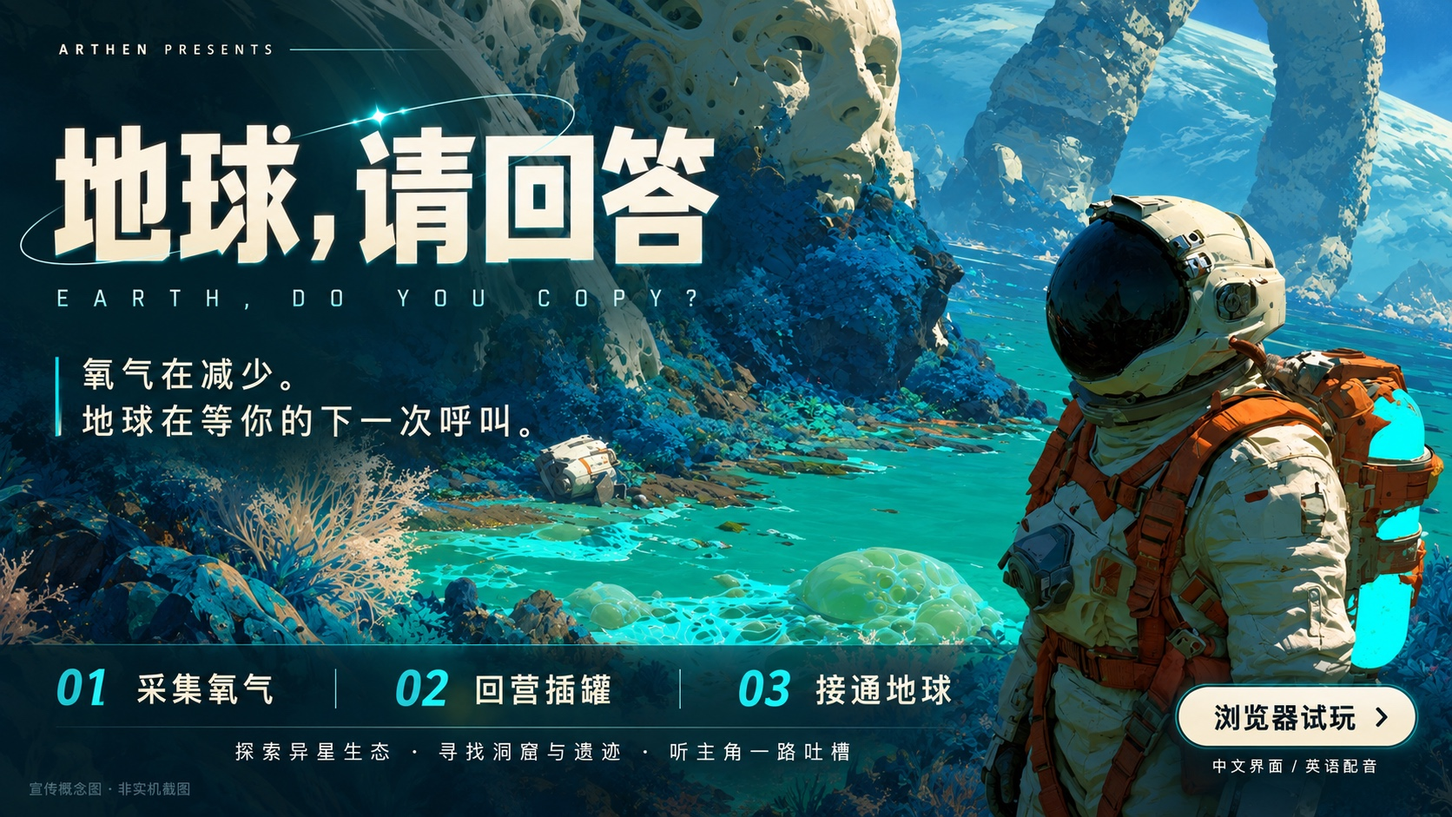
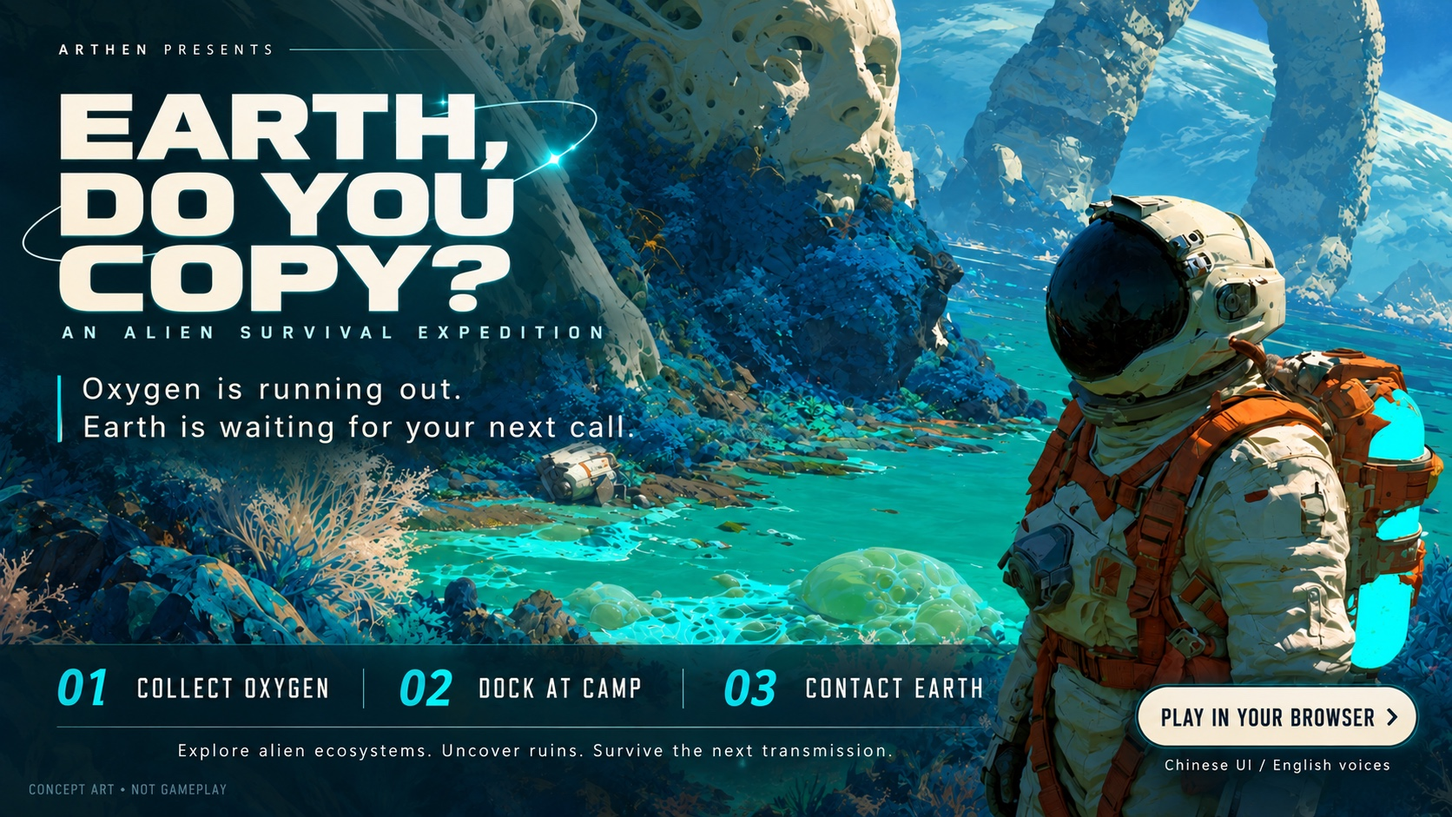
Open the lake horizon, restore cool atmosphere and flock flight; English poster

diff --git a/scene.js b/scene.js
@@ -1,12 +1,12 @@
 import * as THREE from 'three';
-import {createFieldWorld} from './field-world.js?v=20261016-atmosphere';
-import {createCinematic} from './cinematic.js?v=20261016-atmosphere';
+import {createFieldWorld} from './field-world.js?v=20261016-horizon';
+import {createCinematic} from './cinematic.js?v=20261016-horizon';
 import {expandedHeight,expandGround} from './terrain.js?v=20261015-1';
 import {createFishSchools} from './fish.js?v=20261016-camp';
 import {createAmbientSound} from './audio.js?v=20261016-arthen';
-import {enrichEnvironment} from './environment.js?v=20261016-atmosphere';
+import {enrichEnvironment} from './environment.js?v=20261016-horizon';
 import {createWalker} from './walker.js?v=20261016-camp';
-import {createStoryWorld} from './story-world.js?v=20261016-atmosphere';
+import {createStoryWorld} from './story-world.js?v=20261016-horizon';
 import {createGameUI} from './game-ui.js?v=20261016-mj81';
 import {OrbitControls} from 'three/addons/controls/OrbitControls.js';
 import {GLTFLoader} from 'three/addons/loaders/GLTFLoader.js';
@@ -34,7 +34,7 @@ const dawnLight=new THREE.DirectionalLight(0xffd8ad,.32);dawnLight.position.set(
 const fireLight=new THREE.PointLight(0xff9a45,320,12,2);fireLight.position.set(3.9,1.25,.10);fireLight.castShadow=false;fireLight.shadow.mapSize.set(512,512);fireLight.shadow.bias=-.002;fireLight.shadow.normalBias=.02;fireLight.shadow.camera.near=.15;scene.add(fireLight);const fireBounce=new THREE.PointLight(0xff6520,75,8,2);fireBounce.position.set(3.7,.35,.9);scene.add(fireBounce);
 const composer=new EffectComposer(renderer);composer.addPass(new RenderPass(scene,camera));const bloom=new UnrealBloomPass(new THREE.Vector2(innerWidth,innerHeight),.28,.30,1.35);composer.addPass(bloom);
 const motionBlur=new ShaderPass({uniforms:{tDiffuse:{value:null},direction:{value:new THREE.Vector2(0,1)},strength:{value:0},resolution:{value:new THREE.Vector2()}},vertexShader:'varying vec2 vUv;void main(){vUv=uv;gl_Position=projectionMatrix*modelViewMatrix*vec4(position,1.);}',fragmentShader:`uniform sampler2D tDiffuse;uniform vec2 direction;uniform float strength;uniform vec2 resolution;varying vec2 vUv;void main(){vec4 center=texture2D(tDiffuse,vUv);if(strength<.1){gl_FragColor=center;return;}vec2 stepUv=normalize(direction)*strength/resolution;vec4 color=center*.28;color+=(texture2D(tDiffuse,vUv+stepUv*.333)+texture2D(tDiffuse,vUv-stepUv*.333))*.16;color+=(texture2D(tDiffuse,vUv+stepUv*.667)+texture2D(tDiffuse,vUv-stepUv*.667))*.11;color+=(texture2D(tDiffuse,vUv+stepUv)+texture2D(tDiffuse,vUv-stepUv))*.09;float backgroundMask=smoothstep(.09,.24,length((vUv-vec2(.5,.5))*vec2(1.,.82)));gl_FragColor=mix(center,color,backgroundMask*.65);}`});renderer.getDrawingBufferSize(motionBlur.uniforms.resolution.value);composer.addPass(motionBlur);
-const grade=new ShaderPass({uniforms:{tDiffuse:{value:null},strength:{value:1}},vertexShader:'varying vec2 vUv; void main(){vUv=uv;gl_Position=projectionMatrix*modelViewMatrix*vec4(position,1.0);}',fragmentShader:`uniform sampler2D tDiffuse;uniform float strength;varying vec2 vUv;void main(){vec3 c=texture2D(tDiffuse,vUv).rgb;float l=dot(c,vec3(.2126,.7152,.0722));vec3 graded=c*mix(vec3(.96,1.00,1.025),vec3(1.035,1.01,.97),smoothstep(.10,1.3,l));float gradeLuma=dot(graded,vec3(.2126,.7152,.0722));graded=max(vec3(0.),mix(vec3(gradeLuma),graded,1.04));float vig=1.0-.15*pow(length((vUv-.5)*vec2(1.,.84))*1.3,1.8);gl_FragColor=vec4(mix(c,graded*vig,strength),1.0);}`});composer.addPass(grade);composer.addPass(new OutputPass());composer.addPass(new SMAAPass());
+const grade=new ShaderPass({uniforms:{tDiffuse:{value:null},strength:{value:1}},vertexShader:'varying vec2 vUv; void main(){vUv=uv;gl_Position=projectionMatrix*modelViewMatrix*vec4(position,1.0);}',fragmentShader:`uniform sampler2D tDiffuse;uniform float strength;varying vec2 vUv;void main(){vec3 c=texture2D(tDiffuse,vUv).rgb;float l=dot(c,vec3(.2126,.7152,.0722));vec3 graded=c*mix(vec3(.88,.98,1.08),vec3(1.00,1.01,1.025),smoothstep(.10,1.3,l));float gradeLuma=dot(graded,vec3(.2126,.7152,.0722));graded=max(vec3(0.),mix(vec3(gradeLuma),graded,1.04));float vig=1.0-.15*pow(length((vUv-.5)*vec2(1.,.84))*1.3,1.8);gl_FragColor=vec4(mix(c,graded*vig,strength),1.0);}`});composer.addPass(grade);composer.addPass(new OutputPass());composer.addPass(new SMAAPass());
 const draco=new DRACOLoader().setDecoderPath('./node_modules/three/examples/jsm/libs/draco/gltf/').setDecoderConfig({type:'js'}).setWorkerLimit(2);const loader=new GLTFLoader().setDRACOLoader(draco);let model,boat,water,layout,flame,environment,walker,fishSchools,gameUI,cinematic,birds=[];
 function windMaterial(mat,kind='willow'){mat.onBeforeCompile=shader=>{shader.uniforms.uTime=timeU;shader.uniforms.uWeather=weatherU;shader.vertexShader='uniform float uTime;uniform float uWeather;\n'+shader.vertexShader;const expr=kind==='grass'?`float flex=clamp(position.y/0.35,0.,1.);transformed.x+=sin(uTime*1.1+instanceMatrix[3].x*.7+instanceMatrix[3].z*.4)*.032*flex*flex*uWeather;`:`float flex=smoothstep(.6,3.8,position.y);float gust=sin(uTime*.7+position.x*.5+position.z*.28)*.10+sin(uTime*1.41+position.z*.8)*.025;transformed.x+=gust*flex*uWeather;transformed.z+=cos(uTime*.82+position.x*.4)*.04*flex*uWeather;`;shader.vertexShader=shader.vertexShader.replace('#include <begin_vertex>','#include <begin_vertex>\n'+expr);if(kind==='willow')shader.fragmentShader=shader.fragmentShader.replace('#include <clipping_planes_fragment>','#include <clipping_planes_fragment>\nif(length(vViewPosition)<3.4)discard;');};mat.customProgramCacheKey=()=>`wind-${kind}-camera-clear`;return mat;}
 function valueNoise(x,y,z){const f=t=>t*t*(3-2*t),hash=(a,b,c)=>{const d=Math.sin(a*127.1+b*311.7+c*74.7)*43758.5453;return d-Math.floor(d);},ix=Math.floor(x),iy=Math.floor(y),iz=Math.floor(z),fx=f(x-ix),fy=f(y-iy),fz=f(z-iz);let out=0;for(let a=0;a<2;a++)for(let b=0;b<2;b++)for(let c=0;c<2;c++)out+=hash(ix+a,iy+b,iz+c)*(a?fx:1-fx)*(b?fy:1-fy)*(c?fz:1-fz);return out;}
@@ -52,9 +52,9 @@ else if(m.name==='BOAT'){m.color.setRGB(.35,.41,.38);m.roughness=.57;m.normalSca
 else if(m.name.startsWith('POD_')){colorDirt(o);m.roughness=Math.max(.24,m.roughness);}
 if(name.startsWith('DEBRIS'))o.visible=false;
 if(name==='ASTRONAUT'){m.roughness=.84;m.envMapIntensity=.5;}});scene.add(model);expandGround(model.getObjectByName('GROUND'),groundHeight);
-progress('群山与细柳正在苏醒…',74);environment=await enrichEnvironment({scene,model,rand,gauss,groundHeight,windMaterial,noiseGLSL,renderer,layout,timeU,valueNoise,loader});createWater();createContact();createDebris();createRain();createFire();createBirds();createMist();await createRocks();const characterAsset=await loader.loadAsync('./assets/motion/animation-repaired.glb');walker=createWalker({characterAsset,scene,model,camera,controls,renderer,ground:environment.ground,groundHeight,obstacles:environment.obstacles,state});const storyWorld=await createStoryWorld({scene,loader,groundHeight,walker});storyWorld.field=await createFieldWorld({scene,loader,walker,world:storyWorld,groundHeight});fishSchools=createFishSchools({scene,groundHeight,rand,state,water,camera,controls,walker});progress('正在准备旅程…',96);applyLook();cinematic=createCinematic({scene,camera,state,key,dawnLight,groundHeight});renderer.compile(scene,camera);composer.render();$('#loadbar').style.width='100%';$('#loading-percent').textContent='100%';gameUI=createGameUI({camera,controls,renderer,walker,state,groundHeight,ambientSound,world:storyWorld});document.body.classList.add('ready');gameUI.ready();window.__LAGOON_READY__=true;window.__LAGOON__={scene,camera,renderer,controls,state,home,applyLook,model,water,grade,key,dawnLight,fireLight,environment,walker,fishSchools,ambientSound,gameUI,storyWorld,groundHeight};last=performance.now();animate();}
+progress('群山与细柳正在苏醒…',74);environment=await enrichEnvironment({scene,model,rand,gauss,groundHeight,windMaterial,noiseGLSL,renderer,layout,timeU,valueNoise,loader});createWater();createContact();createDebris();createRain();createFire();createBirds();createMist();await createRocks();const characterAsset=await loader.loadAsync('./assets/motion/animation-repaired.glb');walker=createWalker({characterAsset,scene,model,camera,controls,renderer,ground:environment.ground,groundHeight,obstacles:environment.obstacles,state});const storyWorld=await createStoryWorld({scene,loader,groundHeight,walker});storyWorld.field=await createFieldWorld({scene,loader,walker,world:storyWorld,groundHeight});fishSchools=createFishSchools({scene,groundHeight,rand,state,water,camera,controls,walker});progress('正在准备旅程…',96);applyLook();cinematic=createCinematic({scene,camera,state,key,dawnLight,groundHeight});renderer.compile(scene,camera);composer.render();$('#loadbar').style.width='100%';$('#loading-percent').textContent='100%';gameUI=createGameUI({camera,controls,renderer,walker,state,groundHeight,ambientSound,world:storyWorld});document.body.classList.add('ready');gameUI.ready();window.__LAGOON_READY__=true;window.__LAGOON__={scene,camera,renderer,controls,state,home,applyLook,model,water,grade,key,dawnLight,fireLight,environment,walker,fishSchools,birds,ambientSound,gameUI,storyWorld,groundHeight};last=performance.now();animate();}
 function waterNormals(){const n=256,data=new Uint8Array(n*n*4);for(let y=0;y<n;y++)for(let x=0;x<n;x++){const u=x/n*Math.PI*2,v=y/n*Math.PI*2,dx=.16*Math.cos(u*7+Math.sin(v*3))+.09*Math.sin(u*19+v*11)+.025*Math.sin(u*53-v*37),dy=.20*Math.cos(v*9+Math.sin(u*4))+.07*Math.sin(v*23+u*5),norm=new THREE.Vector3(dx,dy,1).normalize(),i=(y*n+x)*4;data[i]=(norm.x*.5+.5)*255;data[i+1]=(norm.y*.5+.5)*255;data[i+2]=(norm.z*.5+.5)*255;data[i+3]=255;}const t=new THREE.DataTexture(data,n,n);t.wrapS=t.wrapT=THREE.RepeatWrapping;t.needsUpdate=true;t.magFilter=THREE.LinearFilter;t.minFilter=THREE.LinearMipmapLinearFilter;t.generateMipmaps=true;return t;}
-function createWater(){water=new Water(new THREE.PlaneGeometry(6200,6200),{textureWidth:1024,textureHeight:1024,waterNormals:waterNormals(),sunDirection:new THREE.Vector3(-22,28,15).normalize(),sunColor:0xffeed4,waterColor:0x1c3b37,distortionScale:1.9,fog:true});water.rotation.x=-Math.PI/2;water.position.y=-.03;water.material.uniforms.size.value=9;water.material.fragmentShader=water.material.fragmentShader.replace('float rf0 = 0.3;','float rf0 = 0.0204;').replace('noise.xzy * vec3( 1.5, 1.0, 1.5 )','noise.xzy * vec3( 1.0, 1.0, 1.0 )').replace('vec3( 0.1 ) + reflectionSample * 0.9','vec3( 0.005 ) + reflectionSample * 0.98');water.material.fragmentShader=water.material.fragmentShader.replace('vec3 reflectionSample = vec3( texture2D( mirrorSampler, mirrorCoord.xy / mirrorCoord.w + distortion ) );', 'vec2 rc=mirrorCoord.xy/mirrorCoord.w+distortion;vec3 reflectionSample=vec3(texture2D(mirrorSampler,rc))*.28;reflectionSample+=(texture2D(mirrorSampler,rc+vec2(.001,0)).rgb+texture2D(mirrorSampler,rc-vec2(.001,0)).rgb+texture2D(mirrorSampler,rc+vec2(0,.002)).rgb+texture2D(mirrorSampler,rc-vec2(0,.002)).rgb)*.18;');water.material.fragmentShader=water.material.fragmentShader.replace(/vec4 getNoise\( vec2 uv \) \{[\s\S]*?\}/,`${noiseGLSL} vec4 getNoise(vec2 uv){vec2 p=uv*.12*vec2(.7,1.35)+vec2(time*.12,-time*.07);float h=fbm(p);float x=fbm(p+vec2(.035,0.));float y=fbm(p+vec2(0.,.035));float fade=exp(-length(worldPosition.xyz-eye)*.008);return vec4((h-x)*3.4*fade,(h-y)*3.4*fade,1.,0.);}`);water.material.fragmentShader=water.material.fragmentShader.replace('float theta = max(', 'reflectionSample=mix(reflectionSample,vec3(.14,.185,.20),(1.-exp(-distance*.003))*.55);\nfloat theta = max(');scene.add(water);water.material.fragmentShader=water.material.fragmentShader.replace('100.0, 2.0, 0.5','70.0, 0.22, 0.25');
+function createWater(){water=new Water(new THREE.PlaneGeometry(6200,6200),{textureWidth:1024,textureHeight:1024,waterNormals:waterNormals(),sunDirection:new THREE.Vector3(-22,28,15).normalize(),sunColor:0xe1ecf2,waterColor:0x1b3c48,distortionScale:1.9,fog:true});water.rotation.x=-Math.PI/2;water.position.y=-.03;water.material.uniforms.size.value=9;water.material.fragmentShader=water.material.fragmentShader.replace('float rf0 = 0.3;','float rf0 = 0.0204;').replace('noise.xzy * vec3( 1.5, 1.0, 1.5 )','noise.xzy * vec3( 1.0, 1.0, 1.0 )').replace('vec3( 0.1 ) + reflectionSample * 0.9','vec3( 0.005 ) + reflectionSample * 0.98');water.material.fragmentShader=water.material.fragmentShader.replace('vec3 reflectionSample = vec3( texture2D( mirrorSampler, mirrorCoord.xy / mirrorCoord.w + distortion ) );', 'vec2 rc=mirrorCoord.xy/mirrorCoord.w+distortion;vec3 reflectionSample=vec3(texture2D(mirrorSampler,rc))*.28;reflectionSample+=(texture2D(mirrorSampler,rc+vec2(.001,0)).rgb+texture2D(mirrorSampler,rc-vec2(.001,0)).rgb+texture2D(mirrorSampler,rc+vec2(0,.002)).rgb+texture2D(mirrorSampler,rc-vec2(0,.002)).rgb)*.18;');water.material.fragmentShader=water.material.fragmentShader.replace(/vec4 getNoise\( vec2 uv \) \{[\s\S]*?\}/,`${noiseGLSL} vec4 getNoise(vec2 uv){vec2 p=uv*.12*vec2(.7,1.35)+vec2(time*.12,-time*.07);float h=fbm(p);float x=fbm(p+vec2(.035,0.));float y=fbm(p+vec2(0.,.035));float fade=exp(-length(worldPosition.xyz-eye)*.008);return vec4((h-x)*3.4*fade,(h-y)*3.4*fade,1.,0.);}`);water.material.fragmentShader=water.material.fragmentShader.replace('float theta = max(', 'reflectionSample=mix(reflectionSample,vec3(.14,.185,.20),(1.-exp(-distance*.003))*.55);\nfloat theta = max(');scene.add(water);water.material.fragmentShader=water.material.fragmentShader.replace('100.0, 2.0, 0.5','70.0, 0.22, 0.25');
 for(const [x,y,rx,ry,h] of layout.puddles){
  const shape=new THREE.Shape();for(let i=0;i<=56;i++){const angle=i/56*Math.PI*2,r=1+.10*Math.sin(angle*3+x)+.07*Math.cos(angle*7+y),px=Math.cos(angle)*rx*r,py=Math.sin(angle)*ry*r;if(!i)shape.moveTo(px,py);else shape.lineTo(px,py);}
  const p=new THREE.Mesh(new THREE.ShapeGeometry(shape),new THREE.MeshPhysicalMaterial({color:0x28342e,roughness:.19,metalness:0,ior:1.333,clearcoat:1,clearcoatRoughness:.16,envMapIntensity:.7,side:THREE.DoubleSide}));
@@ -70,16 +70,36 @@ function createDebris(){const mat=new THREE.MeshStandardMaterial({color:0x554338
 function createRain(){const count=2500,coords=new Float32Array(count*6),randoms=new Float32Array(count*2),ends=new Float32Array(count*2);for(let i=0;i<count;i++){const x=(rand()-.5)*28,y=rand()*15,z=-12+rand()*30;coords.set([x,y,z,x,y,z],i*6);ends[i*2+1]=1;randoms[i*2]=randoms[i*2+1]=rand();}const geo=new THREE.BufferGeometry();geo.setAttribute('position',new THREE.BufferAttribute(coords,3));geo.setAttribute('aRandom',new THREE.BufferAttribute(randoms,1));geo.setAttribute('aEnd',new THREE.BufferAttribute(ends,1));const mat=new THREE.ShaderMaterial({transparent:true,depthWrite:false,uniforms:{uTime:timeU,uWeather:weatherU},vertexShader:`uniform float uTime;uniform float uWeather;attribute float aRandom;attribute float aEnd;varying float vAlpha;void main(){vec3 p=position;float t=uTime*(.7+.3*aRandom);p.y=mod(p.y-t*7.,15.)-aEnd*.10;p.x+=mod(t*.25,2.)+aEnd*.012;vec4 mv=modelViewMatrix*vec4(p,1.);vAlpha=(.025+.055*aRandom)*uWeather*smoothstep(2.,6.,-mv.z);gl_Position=projectionMatrix*mv;}`,fragmentShader:'varying float vAlpha;void main(){gl_FragColor=vec4(.68,.82,.87,vAlpha);}'});const rain=new THREE.LineSegments(geo,mat);rain.frustumCulled=false;scene.add(rain);}
 const noiseGLSL=`float hash(vec2 p){return fract(sin(dot(p,vec2(127.1,311.7)))*43758.5453);}float noise(vec2 p){vec2 i=floor(p),f=fract(p);f=f*f*(3.-2.*f);return mix(mix(hash(i),hash(i+vec2(1,0)),f.x),mix(hash(i+vec2(0,1)),hash(i+vec2(1,1)),f.x),f.y);}float fbm(vec2 p){return .55*noise(p)+.28*noise(p*2.03)+.14*noise(p*4.1)+.07*noise(p*8.2);}`;
 function createFire(){const geo=new THREE.InstancedBufferGeometry(),plane=new THREE.PlaneGeometry(1,1);geo.index=plane.index;geo.attributes=plane.attributes;const values=[];for(let i=0;i<95;i++)values.push(rand(),rand(),rand(),rand());geo.setAttribute('aSeed',new THREE.InstancedBufferAttribute(new Float32Array(values),4));geo.instanceCount=95;const mat=new THREE.ShaderMaterial({uniforms:{uTime:timeU,uFire:{value:1}},transparent:true,depthWrite:false,side:THREE.DoubleSide,blending:THREE.AdditiveBlending,vertexShader:`uniform float uTime;attribute vec4 aSeed;varying vec2 vUv;varying float vLife;void main(){vUv=uv;float age=fract(aSeed.x+uTime*(.30+aSeed.y*.37));vLife=age;vec3 center=vec3(3.95+(aSeed.z-.5)*.65+age*.25,.55+age*1.60,.08+(aSeed.w-.5)*.35);vec4 mv=modelViewMatrix*vec4(center,1.);float scale=(.18+aSeed.y*.36)*(1.-age*.65);mv.xy+=position.xy*vec2(scale,scale*1.7);gl_Position=projectionMatrix*mv;}`,fragmentShader:`uniform float uTime;uniform float uFire;varying vec2 vUv;varying float vLife;${noiseGLSL}void main(){vec2 p=(vUv-.5)*2.;float n=fbm(vUv*5.+vec2(0.,-uTime*3.));float shape=smoothstep(1.,.0,length(p*vec2(1.,.85))+n*.32);float a=shape*pow(1.-vLife,1.3)*.12*uFire;vec3 c=mix(vec3(3.5,1.5,.25),vec3(1.5,.15,.008),vLife);gl_FragColor=vec4(c,a);}`});flame=new THREE.Mesh(geo,mat);flame.frustumCulled=false;scene.add(flame);const smokeGeo=geo.clone();smokeGeo.instanceCount=32;const smokeMat=new THREE.ShaderMaterial({uniforms:{uTime:timeU},transparent:true,depthWrite:false,side:THREE.DoubleSide,vertexShader:`uniform float uTime;attribute vec4 aSeed;varying vec2 vUv;varying float vLife;void main(){vUv=uv;float age=fract(aSeed.x+uTime*.06);vLife=age;vec3 center=vec3(4.1+age*2.3+sin(age*9.+aSeed.z*6.)*.2,1.2+age*6.,-.7-age*.5+(aSeed.w-.5)*.7);vec4 mv=modelViewMatrix*vec4(center,1.);mv.xy+=position.xy*(.5+age*2.2);gl_Position=projectionMatrix*mv;}`,fragmentShader:`varying vec2 vUv;varying float vLife;uniform float uTime;${noiseGLSL}void main(){float n=fbm(vUv*4.+vec2(vLife*5.,uTime*.07));float shape=smoothstep(.52,.13,length(vUv-.5));float a=shape*n*.23*sin(vLife*3.14159);gl_FragColor=vec4(mix(vec3(.095,.11,.12),vec3(.23,.27,.29),vLife),a);}`});const smoke=new THREE.Mesh(smokeGeo,smokeMat);smoke.frustumCulled=false;scene.add(smoke);const p=new Float32Array(120*3);for(let i=0;i<120;i++)p.set([rand(),rand(),rand()],i*3);const eg=new THREE.BufferGeometry();eg.setAttribute('position',new THREE.BufferAttribute(p,3));const embers=new THREE.Points(eg,new THREE.ShaderMaterial({uniforms:{uTime:timeU},transparent:true,depthWrite:false,blending:THREE.AdditiveBlending,vertexShader:'uniform float uTime;varying float vA;void main(){float age=fract(position.y+uTime*(.12+.13*position.x));vec3 p=vec3(4.1+(position.x-.5)*.9+age*.8,.65+age*3.5,-.4+(position.z-.5)*.7);vec4 mv=modelViewMatrix*vec4(p,1.);gl_Position=projectionMatrix*mv;gl_PointSize=clamp(24./-mv.z,1.,3.);vA=1.-age;}',fragmentShader:'varying float vA;void main(){float a=smoothstep(.5,.1,length(gl_PointCoord-.5));gl_FragColor=vec4(3.,.8,.10,vA*a);}'}));embers.frustumCulled=false;scene.add(embers);}
-function createBirds(){const mat=new THREE.MeshStandardMaterial({color:0x27302e,roughness:.9,side:THREE.DoubleSide});for(let i=0;i<14;i++){const g=new THREE.Group();for(const s of [-1,1]){const geo=new THREE.BufferGeometry();geo.setAttribute('position',new THREE.Float32BufferAttribute([0,0,0,s*.32,.045,-.045,s*.56,-.018,.06,s*.30,0,.08],3));geo.setIndex([0,1,3,1,2,3]);geo.computeVertexNormals();const w=new THREE.Mesh(geo,mat);w.userData.side=s;g.add(w);}g.position.set(-10+i*1.6,9+Math.sin(i)*.7,-65-i*.8);g.userData.phase=rand()*6;scene.add(g);birds.push(g);}}
+function createBirds(){
+ const mat=new THREE.MeshStandardMaterial({color:0x283540,roughness:1,side:THREE.DoubleSide});
+ const wings=[-1,1].map(side=>{const geo=new THREE.BufferGeometry();geo.setAttribute('position',new THREE.Float32BufferAttribute([0,0,0,side*.32,.045,-.045,side*.56,-.018,.06,side*.30,0,.08],3));geo.setIndex([0,1,3,1,2,3]);geo.computeVertexNormals();return {side,geo};});
+ const flocks=[{x:-12,z:-72,y:13,rx:36,rz:17,speed:.052,scale:1.25},{x:35,z:-155,y:25,rx:65,rz:28,speed:-.037,scale:1.55},{x:-70,z:-270,y:43,rx:90,rz:40,speed:.026,scale:1.9}];
+ flocks.forEach((flock,f)=>{for(let i=0;i<8;i++){
+  const bird=new THREE.Group();bird.name=`LAKE_FLOCK_${f}_BIRD_${i}`;
+  for(const {side,geo}of wings){const wing=new THREE.Mesh(geo,mat);wing.userData.side=side;bird.add(wing);}
+  bird.scale.setScalar(flock.scale);bird.userData={flock,slot:i,phase:i*.83+f*2.1,orbit:f*1.8};scene.add(bird);birds.push(bird);
+ }});updateBirds(0);
+}
+function updateBirds(time){
+ for(const bird of birds){const {flock:f,slot,phase,orbit}=bird.userData;
+  const angle=time*f.speed+orbit-slot*.045,dx=-Math.sin(angle)*f.rx*f.speed,dz=Math.cos(angle)*f.rz*f.speed;
+  const heading=Math.atan2(-dx,-dz),side=slot%2?1:-1,rank=Math.ceil(slot/2);
+  bird.position.set(f.x+Math.cos(angle)*f.rx+Math.cos(heading)*side*rank*1.8,f.y+Math.sin(time*.6+phase)*.55+rank*.18,f.z+Math.sin(angle)*f.rz-Math.sin(heading)*side*rank*1.8);
+  bird.rotation.y=heading;bird.rotation.z=Math.sin(angle)*.12;
+  const flap=Math.sin(time*(4.4+slot*.07)+phase)*.42;
+  for(const wing of bird.children)wing.rotation.z=wing.userData.side*flap;
+ }
+}
+
 function createMist(){const geo=new THREE.PlaneGeometry(1,1),mat=new THREE.ShaderMaterial({uniforms:{uTime:timeU},transparent:true,depthWrite:false,side:THREE.DoubleSide,vertexShader:'varying vec2 vUv;void main(){vUv=uv;gl_Position=projectionMatrix*modelViewMatrix*vec4(position,1.);}',fragmentShader:`uniform float uTime;varying vec2 vUv;${noiseGLSL}void main(){float n=fbm(vec2(vUv.x*8.-uTime*.012,vUv.y*3.));float edge=smoothstep(0.,.25,vUv.x)*smoothstep(1.,.75,vUv.x)*pow(sin(vUv.y*3.14159),2.);gl_FragColor=vec4(.55,.62,.65,n*edge*.12);}`});for(let i=0;i<4;i++){const p=new THREE.Mesh(geo,mat);p.position.set(160+i*25,30+i*28,-1000-i*95);p.scale.set(1100-i*60,80,1);scene.add(p);}}
-function applyLook(){const flat=state.compare,day=state.preset==='day';key.intensity=flat?0:state.key;dawnLight.color.setHex(0xc5d5dc);dawnLight.intensity=flat?.12:day?.24:.18;edgeLight.intensity=0;frontfill.intensity=0;skyfill.intensity=flat?1.1:day?.55:.42;scene.environmentIntensity=flat?.9:day?.58:.45;scene.backgroundIntensity=flat?.82:day?.74:.35;renderer.toneMappingExposure=state.exposure;grade.uniforms.strength.value=flat?0:day?.35:.55;bloom.strength=flat?.02:state.bloom;bloom.enabled=state.bloom>0;scene.fog.color.set(flat?0x9da6aa:0x899da5);weatherU.value=state.weather;if(flame)flame.material.uniforms.uFire.value=state.fire;}
+function applyLook(){const flat=state.compare,day=state.preset==='day';key.intensity=flat?0:state.key;dawnLight.color.setHex(0xafcadb);dawnLight.intensity=flat?.12:day?.32:.26;edgeLight.intensity=0;frontfill.intensity=0;skyfill.intensity=flat?1.1:day?.55:.42;scene.environmentIntensity=flat?.9:day?.58:.45;scene.backgroundIntensity=flat?.82:day?.74:.35;renderer.toneMappingExposure=state.exposure;grade.uniforms.strength.value=flat?0:day?.35:.55;bloom.strength=flat?.02:state.bloom;bloom.enabled=state.bloom>0;scene.fog.color.set(flat?0x9da6aa:0x8299ab);weatherU.value=state.weather;if(flame)flame.material.uniforms.uFire.value=state.fire;}
 const screenMotion=new THREE.Vector2(),motionRight=new THREE.Vector3(),motionUp=new THREE.Vector3();let blurStrength=0,last=performance.now(),fpsTime=0,frameCount=0;
 function animate(now=performance.now()){
   requestAnimationFrame(animate);const elapsed=(now-last)/1000,dt=Math.min(elapsed,.12);last=now;if(document.body.classList.contains('prologue-playing'))return;if(!state.paused)state.time+=dt;timeU.value=state.time;
   walker?.update(dt);fishSchools?.update(dt);
-  fireLight.intensity=(state.compare?4:14)*state.fire*(.90+.07*Math.sin(state.time*7.1)+.05*Math.sin(state.time*11.7));fireBounce.intensity=(state.compare?1:2)*state.fire*(.9+.1*Math.sin(state.time*8));
+  fireLight.intensity=(state.compare?4:10)*state.fire*(.90+.07*Math.sin(state.time*7.1)+.05*Math.sin(state.time*11.7));fireBounce.intensity=(state.compare?1:2)*state.fire*(.9+.1*Math.sin(state.time*8));
   if(boat){boat.position.y=Math.sin(state.time*1.1)*.025;boat.rotation.z=Math.sin(state.time*.71)*.004;}if(water)water.material.uniforms.time.value=state.time*.42;
-  birds.forEach((g,i)=>{g.position.x=-14+i*1.65+(state.time*.72)%40;g.position.y=8+Math.sin(i*.5)*.8+Math.sin(state.time*.8+i)*.18;g.children.forEach(w=>w.rotation.z=w.userData.side*Math.sin(state.time*4+g.userData.phase)*.33);});
+  updateBirds(state.time);
   controls.update();gameUI?.update(dt);cinematic?.update(dt);let targetBlur=0;
   if(walker?.enabled&&walker.motionSpeed>.16){
     camera.updateMatrixWorld(true);motionRight.setFromMatrixColumn(camera.matrixWorld,0);motionUp.setFromMatrixColumn(camera.matrixWorld,1);

diff --git a/cinematic.js b/cinematic.js
@@ -2,10 +2,10 @@ import * as THREE from 'three';
 export function createCinematic({scene,camera,state,key,dawnLight,groundHeight}){
  const uniforms={uTime:{value:0},uStorm:{value:0}};
  const noise=`float hash(vec2 p){return fract(sin(dot(p,vec2(127.1,311.7)))*43758.5453);}float noise(vec2 p){vec2 i=floor(p),f=fract(p);f=f*f*(3.-2.*f);return mix(mix(hash(i),hash(i+vec2(1.,0.)),f.x),mix(hash(i+vec2(0.,1.)),hash(i+1.),f.x),f.y);}float fbm(vec2 p){float v=0.,a=.5;for(int i=0;i<5;i++){v+=a*noise(p);p=p*2.02+3.1;a*=.5;}return v;}`;
- const sky=new THREE.Mesh(new THREE.SphereGeometry(4200,36,20),new THREE.ShaderMaterial({side:THREE.BackSide,depthWrite:false,uniforms,vertexShader:'varying vec3 vDir;void main(){vDir=position;gl_Position=projectionMatrix*modelViewMatrix*vec4(position,1.);}',fragmentShader:`varying vec3 vDir;uniform float uTime;uniform float uStorm;${noise}void main(){vec3 d=normalize(vDir);vec3 sun=normalize(vec3(-22.,28.,15.));float h=max(d.y,0.);float glow=pow(max(dot(d,sun),0.),22.);vec3 color=mix(vec3(.25,.34,.39),vec3(.055,.12,.20),pow(h,.5));color+=vec3(.65,.52,.32)*glow*.55;vec2 p=d.xz/(max(.13,d.y+.24))*1.8+vec2(uTime*.004,0.);float cloud=fbm(p);float cover=smoothstep(.35,.73,cloud);vec3 c=mix(vec3(.16,.20,.24),vec3(.53,.49,.41),glow);color=mix(color,c,cover*.70);float breakLight=(1.-smoothstep(.43,.58,cloud))*pow(max(dot(d,sun),0.),110.);color+=vec3(1.8,1.6,1.2)*breakLight;float horizon=exp(-abs(d.y)*15.);color+=vec3(.14,.17,.16)*horizon;color=mix(color,color*vec3(.35,.52,.61),uStorm*.65);gl_FragColor=vec4(color,1.);}`}));sky.name='DRAMATIC_SKY';sky.renderOrder=-10;sky.frustumCulled=false;scene.add(sky);scene.background=null;
- key.color.set(0xffefd9);key.position.set(-22,28,35);key.target.position.set(0,0,20);key.intensity=state.key;Object.assign(key.shadow.camera,{left:-38,right:38,top:48,bottom:-30,far:110});key.shadow.mapSize.set(2048,2048);key.shadow.camera.updateProjectionMatrix();
- dawnLight.color.set(0xc5d5dc);dawnLight.position.set(5,12,-10);dawnLight.intensity=.18;
- scene.fog=new THREE.Fog(0x899da5,85,2100);
+ const sky=new THREE.Mesh(new THREE.SphereGeometry(4200,36,20),new THREE.ShaderMaterial({side:THREE.BackSide,depthWrite:false,uniforms,vertexShader:'varying vec3 vDir;void main(){vDir=position;gl_Position=projectionMatrix*modelViewMatrix*vec4(position,1.);}',fragmentShader:`varying vec3 vDir;uniform float uTime;uniform float uStorm;${noise}void main(){vec3 d=normalize(vDir);vec3 sun=normalize(vec3(-22.,28.,15.));float h=max(d.y,0.);float glow=pow(max(dot(d,sun),0.),22.);vec3 color=mix(vec3(.22,.31,.40),vec3(.045,.09,.18),pow(h,.5));color+=vec3(.65,.52,.32)*glow*.55;vec2 p=d.xz/(max(.13,d.y+.24))*1.8+vec2(uTime*.004,0.);float cloud=fbm(p);float cover=smoothstep(.35,.73,cloud);vec3 c=mix(vec3(.16,.20,.24),vec3(.53,.49,.41),glow);color=mix(color,c,cover*.70);float breakLight=(1.-smoothstep(.43,.58,cloud))*pow(max(dot(d,sun),0.),110.);color+=vec3(1.8,1.6,1.2)*breakLight;float horizon=exp(-abs(d.y)*15.);color+=vec3(.14,.17,.16)*horizon;color=mix(color,color*vec3(.35,.52,.61),uStorm*.65);gl_FragColor=vec4(color,1.);}`}));sky.name='DRAMATIC_SKY';sky.renderOrder=-10;sky.frustumCulled=false;scene.add(sky);scene.background=null;
+ key.color.set(0xe1ecf2);key.position.set(-22,28,35);key.target.position.set(0,0,20);key.intensity=state.key;Object.assign(key.shadow.camera,{left:-38,right:38,top:48,bottom:-30,far:110});key.shadow.mapSize.set(2048,2048);key.shadow.camera.updateProjectionMatrix();
+ dawnLight.color.set(0xafcadb);dawnLight.position.set(5,12,-10);dawnLight.intensity=.26;
+ scene.fog=new THREE.Fog(0x8299ab,85,2100);
  const mistMat=new THREE.ShaderMaterial({transparent:true,depthWrite:false,side:THREE.DoubleSide,uniforms,vertexShader:'varying vec2 vUv;void main(){vUv=uv;gl_Position=projectionMatrix*modelViewMatrix*vec4(position,1.);}',fragmentShader:`uniform float uTime;uniform float uStorm;varying vec2 vUv;${noise}void main(){float edge=pow(sin(vUv.x*3.14159),2.)*pow(sin(vUv.y*3.14159),3.);float n=fbm(vUv*vec2(7.,2.)+vec2(uTime*.026,0.));gl_FragColor=vec4(.52,.61,.64,edge*n*(.026+uStorm*.055));}`});
  for(let i=0;i<3;i++){const sheet=new THREE.Mesh(new THREE.PlaneGeometry(420,18),mistMat);sheet.position.set(i%2?60:-50,7,-140-i*150);sheet.name='DISTANT_WATER_HAZE';scene.add(sheet);}
  // Atmospheric depth comes from distant haze; lighting follows a single sun.

diff --git a/index.html b/index.html
@@ -8,8 +8,8 @@
 <meta property="og:description" content="氧气在减少。采集氧气 → 回营插罐 → 接通地球。浏览器开放试玩。">
 <meta property="og:type" content="website">
 <meta property="og:url" content="https://arthen97.github.io/willow-lagoon/">
-<meta property="og:image" content="https://arthen97.github.io/willow-lagoon/assets/social/earth-do-you-copy-intro.jpg">
-<meta property="og:image:alt" content="地球，请回答：异星宇航员宣传概念图与采集、回收、通话玩法介绍">
+<meta property="og:image" content="https://arthen97.github.io/willow-lagoon/assets/social/earth-do-you-copy-intro-en.jpg">
+<meta property="og:image:alt" content="EARTH, DO YOU COPY? Collect oxygen, dock at camp, contact Earth. Concept art, not gameplay.">
 <meta name="twitter:card" content="summary_large_image">
 <link rel="preload" as="image" href="./assets/opening-poster.jpg?v=mj81"><link rel="stylesheet" href="style.css?v=20261016-mj81"><link rel="stylesheet" href="./assets/ui/opening-ui.css?v=20261016-mj81"><link rel="icon" href="data:,">
 <script type="importmap">{"imports":{"three":"./node_modules/three/build/three.module.js","three/addons/":"./node_modules/three/examples/jsm/"}}</script>
@@ -61,5 +61,5 @@
 
 <dialog id="earth-dialog" class="field-dialog"><div class="field-heading"><span class="eyebrow">EARTH / DEEP SPACE RELAY</span><button id="close-earth">断开通信 <kbd>ESC</kbd></button></div><h2>地球，听得到吗。</h2><section id="earth-mission"><span class="eyebrow">任务频道 / MISSION CONTROL</span><h3 id="earth-task-title"></h3><p id="earth-task-message"></p><div id="earth-task-clue"></div><button id="earth-accept">收到，开始行动 →</button></section><details id="earth-bulletin"><summary>收听地球新闻 · 现实世界播报</summary><p id="earth-status" role="status"></p><p id="earth-overview"></p><a class="earth-source" href="https://science.nasa.gov/earth/facts/" target="_blank" rel="noreferrer">地球概况来源：NASA ↗</a><button id="earth-play" disabled>▶ 播放英语新闻广播</button><div id="earth-news"></div></details><small class="field-footnote">现实世界新闻 · 首次连接每批回收后消耗 10 L · 重看任务免费 · 原始来源可点击</small></dialog><div class="sr-only"><p id="walk-status"></p><span id="status"></span></div>
 <dialog id="credits-dialog"><button id="close-credits" aria-label="关闭署名">×</button><span class="eyebrow">ASSET CREDITS</span><h2>制作与资产署名</h2><p>场景资产与生成内容署名。</p><ul><li><a href="https://sketchfab.com/3d-models/old-rowboat-9922d5678af84adeb1c9b479856446ca" target="_blank" rel="noreferrer">Old Rowboat</a> — TooManyDemons</li><li><a href="https://sketchfab.com/3d-models/volcano-terrain-environment-5bd0fcb7455141dfb06ff33b0ea4e79a" target="_blank" rel="noreferrer">Volcano terrain / environment</a> — teej_FBX</li></ul><p>上述模型按 <a href="https://creativecommons.org/licenses/by/4.0/" target="_blank" rel="noreferrer">CC BY 4.0</a> 使用；已调整尺寸、网格密度、材质及构图。</p><p>HDRI、树皮、湿地与苔石：<a href="https://polyhaven.com" target="_blank" rel="noreferrer">Poly Haven · CC0</a>。宇航员：本项目既有 Meshy 资产。细柳与救生舱：项目早期资产。山体与写实草丛：Poly Haven · CC0；洞穴与岩石遗迹：Ron Kapaun / 3TD Studios · CC0。</p><p>开场海报：Merouter · Midjourney 8.1。环境音：Merouter · ElevenLabs Music v1。主角配音：Merouter · Eleven v4，原创演员音色。四尊夸张石膏胸像：Meshy AI。氧气罐、收集器、营地与异星植物：Meshy 7.1，PBR 贴图。所有名人留言、后代故事及未来事件均为虚构讽刺。</p><a href="ASSET_CREDITS.md" target="_blank">完整资产说明 ↗</a></dialog>
-<script type="module" src="./assets/ui/opening-ui.js?v=20261016-mj81"></script><script type="module" src="scene.js?v=20261016-atmosphere"></script>
+<script type="module" src="./assets/ui/opening-ui.js?v=20261016-mj81"></script><script type="module" src="scene.js?v=20261016-horizon"></script>
 </body></html>

diff --git a/field-world.js b/field-world.js
@@ -43,11 +43,25 @@ export async function createFieldWorld({scene,loader,walker,world,groundHeight})
  const caveSign=label('蓝脉洞窟','避风  /  放置抽气器，再回来收罐',2.6);caveSign.position.set(CAVE.x-3.6,groundHeight(CAVE.x,CAVE.z)+1.5,33.6);caveSign.rotation.y=Math.PI+.3;
  for(let k=0;k<3;k++){const l=new THREE.PointLight(0x9acbc3,4,7,2);l.position.set(CAVE.x,groundHeight(CAVE.x,CAVE.z)+1.8,38+k*4);group.add(l);}
  for(let k=0;k<8;k++){const colony=put('fan-plant',CAVE.x+Math.sin(k*2.9)*3.2,37+k*1.6,.3+(k%3)*.12,k);materials(colony,m=>{m.emissive.setHex(0x57d7ca);m.emissiveMap=m.map;m.emissiveIntensity=1.15;});}
- // Real scanned CC0 cliff meshes form the mountains around the open basin.
- const cliffs=[[-43,32,19,Math.PI/2],[-46,65,25,Math.PI/2],[43,35,20,-Math.PI/2],[46,68,24,-Math.PI/2],[-13,83,27,Math.PI],[22,87,23,Math.PI],[-26,46,10,Math.PI/2],[-9,48,9,-Math.PI/2]];
- for(const[x,z,h,r]of cliffs){const o=put('coastal-cliff',x,z,h,r,-2.8);o.name='CC0_SCANNED_MOUNTAIN';if(Math.abs(x)<30&&z<60)o.scale.x*=.2;if(z<70&&Math.abs(x)>30)for(let dz=-14;dz<=14;dz+=3)walker.obstacles.push({x,z:z+dz,r:3,h:40});}
- // Replace the old procedural distant ridges with the same downloaded landform.
- for(const[x,z,h,r]of[[-130,-240,90,0],[90,-330,125,.2],[-240,-490,160,-.2]])put('coastal-cliff',x,z,h,r,-10);
+ // Keep the scanned cliff's natural proportions, but bound its footprint.
+ // This source is almost nine times wider than tall: height alone cannot size a backdrop.
+ function landscapeCliff(x,z,height,rotation,maxSpan,name){
+  const o=put('coastal-cliff',x,z,height,rotation,-3);
+  const size=new THREE.Box3().setFromObject(o).getSize(new THREE.Vector3());
+  o.scale.multiplyScalar(Math.min(1,maxSpan/Math.max(size.x,size.z)));
+  o.name=name;o.updateMatrixWorld(true);return o;
+ }
+ for(const[x,z,h,r]of[[-90,70,16,Math.PI/2],[-108,138,22,Math.PI/2],[92,78,17,-Math.PI/2],[118,145,21,-Math.PI/2],[-24,165,20,Math.PI],[55,180,18,Math.PI]]){
+  landscapeCliff(x,z,h,r,105,'CC0_OUTER_ISLAND_RIDGE');
+ }
+ // Low outcrops frame the playable cave; the imported chamber supplies its actual walls.
+ landscapeCliff(-26,46,10,Math.PI/2,32,'CC0_CAVE_OUTCROP');
+ landscapeCliff(-9,48,9,-Math.PI/2,28,'CC0_CAVE_OUTCROP');
+ // Leave an uninterrupted lake and sky between the player and the distant shoreline.
+ for(const[x,z,h,r]of[[-430,-1050,60,.12],[420,-1250,80,-.15],[-780,-1500,95,.25]]){
+  const o=landscapeCliff(x,z,h,r,650,'CC0_DISTANT_SHORE');o.position.y=-8;
+  o.traverse(mesh=>{if(mesh.isMesh){mesh.castShadow=false;mesh.receiveShadow=false;}});
+ }
  const colonies=[[-12,10,2.2],[-22,18,3.2],[8,21,2.6],[18,24,3.5],[-26,29,4],[23,42,4.8],[-7,44,2.8],[7,48,5],[20,15,2.4],[-29,38,3.4]];
  for(const[x,z,h]of colonies){put('fan-plant',x,z,h,x*.6);walker.obstacles.push({x,z,r:.35,h});}
  const trail=label('营地 ←    洞窟 ↑','先观察，再取用。别把肺交给广告。',2.4);trail.position.set(-8,groundHeight(-8,24)+1.2,24);

diff --git a/docs/social-poster-en.md b/docs/social-poster-en.md
@@ -1,0 +1,9 @@
+# English promotional poster
+
+Tool: built-in image generation, editing the prior promotional layout based on Merouter Midjourney 8.1 artwork.
+
+Output: assets/social/earth-do-you-copy-intro-en.jpg (PNG master alongside it in the local project).
+
+## Prompt
+
+Edit the attached game announcement poster. Change ONLY all typography to English, carefully recompose the left title typography to fit, preserve the same Midjourney-derived astronaut illustration, giant pale ruins, blue-green alien landscape, color palette, cinematic illustration, right-side subject placement and bottom three-step layout. There must be NO Chinese characters anywhere. Premium commercial game promotion in a landscape 16:9 frame. Top small text: 'ARTHEN PRESENTS'. Large main title on left in 3 elegantly balanced lines, exact words: 'EARTH,' then 'DO YOU' then 'COPY?'. Do not repeat the same title as a second subtitle; use the small subtitle 'AN ALIEN SURVIVAL EXPEDITION'. Left middle hook, exact two lines: 'Oxygen is running out.' and 'Earth is waiting for your next call.' Bottom band, fully readable exact step names: '01  COLLECT OXYGEN' / '02  DOCK AT CAMP' / '03  CONTACT EARTH'. Supporting footer: 'Explore alien ecosystems. Uncover ruins. Survive the next transmission.' Bottom-right button: 'PLAY IN YOUR BROWSER' with small text below 'Chinese UI / English voices'. Tiny bottom-left disclosure: 'CONCEPT ART • NOT GAMEPLAY'. Keep typography sharp and accurate, generous margins, excellent hierarchy, no additional text, no logos, no fake review scores, no QR code. Keep the character clear and retain the existing artistic image. Deliver one finished English promotional poster.

diff --git a/README.md b/README.md
@@ -81,3 +81,7 @@ React Bits Tech Text 的来源及许可证见资产说明。运行 `node scripts
 ### 2026-10-16 · 自然光照与对岸大气
 
 移除地表青蓝染色，恢复岩土与苔绿贴图色彩；统一天空、日光与水面高光方向，关闭额外轮廓光和近景光柱，降低辉光与局部发光。晴天雾范围改为 85–2100 米，对岸山体重新处于可见范围，风暴时渐变至 25–850 米。飞书文案见 `docs/feishu-intro.md`，介绍图见 `assets/social/earth-do-you-copy-intro.jpg`。
+
+### Horizon, cool atmosphere and bird flocks
+
+Moved the added distant cliff meshes to 1.05–1.5 km away; bounded the footprint of wide scanned cliff assets near the island and cave. Preserved the original distant island. Cooler daylight, sky and shadows retain natural terrain colors. The existing bird silhouettes now form three continuous orbiting flocks (24 birds). English promotional artwork: `assets/social/earth-do-you-copy-intro-en.jpg`.

diff --git a/ASSET_CREDITS.md b/ASSET_CREDITS.md
@@ -92,3 +92,8 @@ Willow geometry was remodeled procedurally in Blender for this project; it is no
 ## 2026-10-16 · Social introduction image
 
 - `assets/social/earth-do-you-copy-intro.jpg`: promotional layout made with the built-in image-generation tool, using this project’s Merouter Midjourney 8.1 cover as reference. Chinese typography explains the gameplay loop. Marked as concept artwork, not a gameplay screenshot.
+
+## English social artwork
+
+- Replaced the Chinese promotional lettering with English using the built-in image editing tool, retaining the existing Midjourney-based artwork. Current file: `assets/social/earth-do-you-copy-intro-en.jpg`; the previous generic introduction URL also serves the English version. Prompt and workflow: `docs/social-poster-en.md`.
+- Bird silhouettes reuse the existing project geometry; only grouping and flight animation changed. Landscape meshes remain the existing CC0 scans and original island.

diff --git a/docs/feishu-intro.md b/docs/feishu-intro.md
@@ -8,9 +8,9 @@
 
 这一版更新了自然地表、统一光照和远景大气层次。欢迎帮忙试玩，尤其想听听：第一轮采集流程是否清楚、跑跳手感如何、探索是否有趣。
 
-试玩：https://arthen97.github.io/willow-lagoon/?v=atmosphere
+试玩：https://arthen97.github.io/willow-lagoon/?v=horizon
 
 操作：WASD 移动，Shift 奔跑，Space 跳跃；E 采集/插罐，R 在营地联系地球，M 地图。
 
-配图：assets/social/earth-do-you-copy-intro.jpg
+配图：assets/social/earth-do-you-copy-intro-en.jpg
 图片为宣传概念图，非实机截图。
